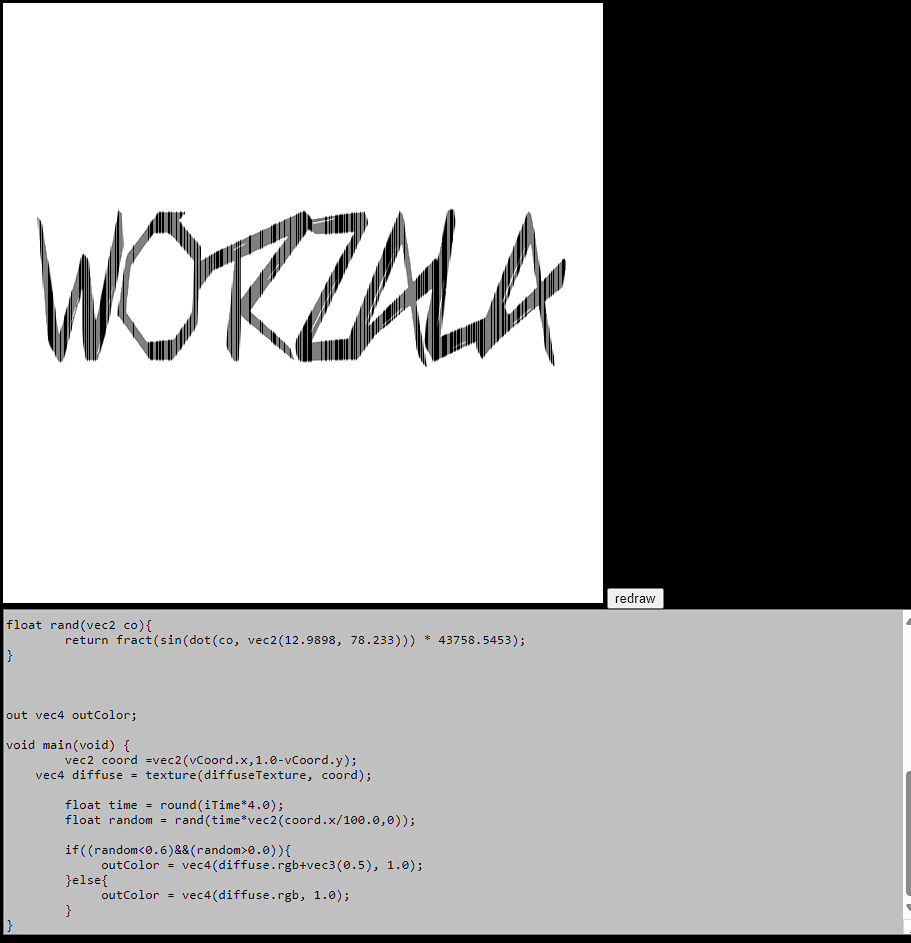
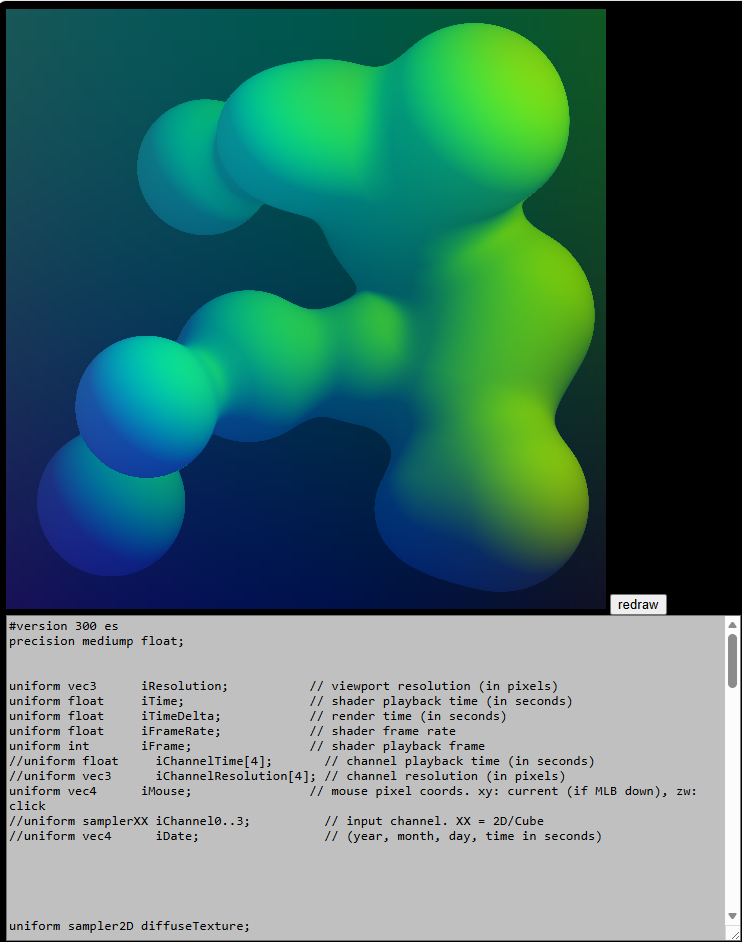
refactoring && change demo

diff --git a/server.js b/server.js
@@ -1,0 +1,19 @@
+import express from 'express'
+import path from 'path'
+
+const app = express();
+const PORT = process.env.PORT || 3000;
+
+// Serwowanie statycznych plików z folderu "public"
+app.use(express.static(path.resolve('./public')));
+app.use('/sources',express.static(path.resolve('./sources')));
+app.use('/shaders',express.static(path.resolve('./shaders')));
+
+// Fallback dla SPA lub stron bez routera
+app.get(/\*/, (req, res) => {
+  res.sendFile(path.resolve('./public/index.html'));
+});
+
+app.listen(PORT, () => {
+  console.log(`Server działa na http://localhost:${PORT}`);
+});